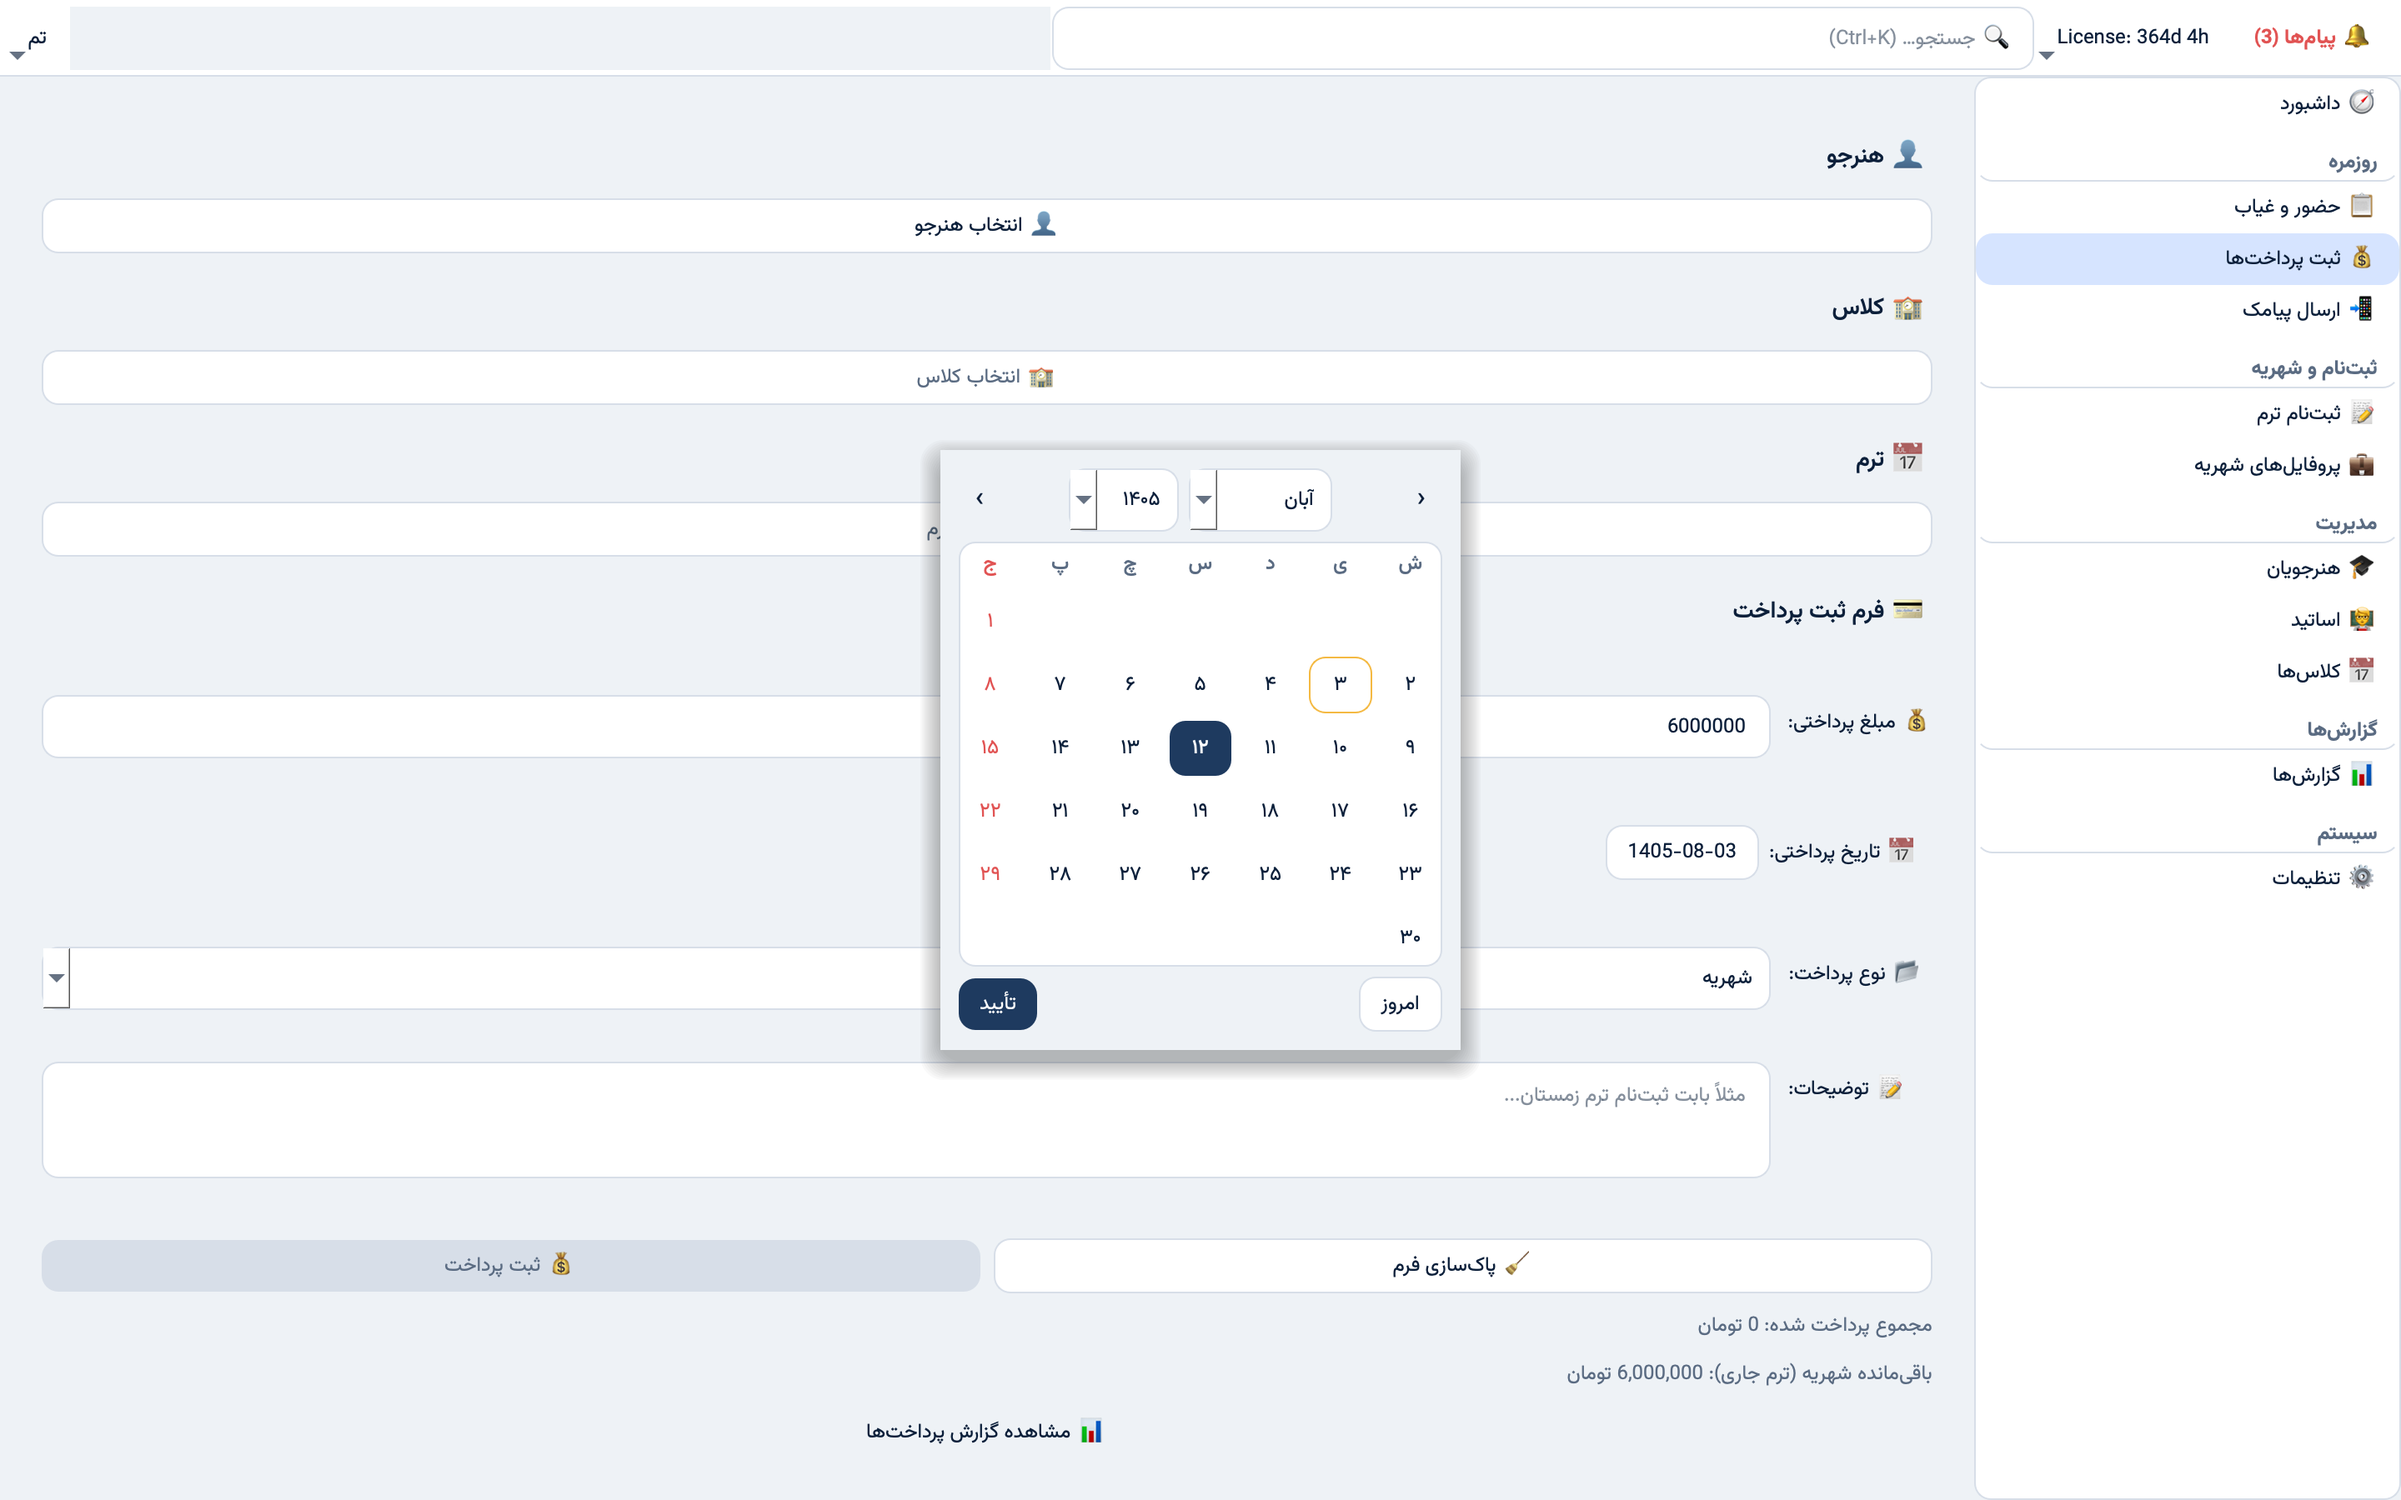
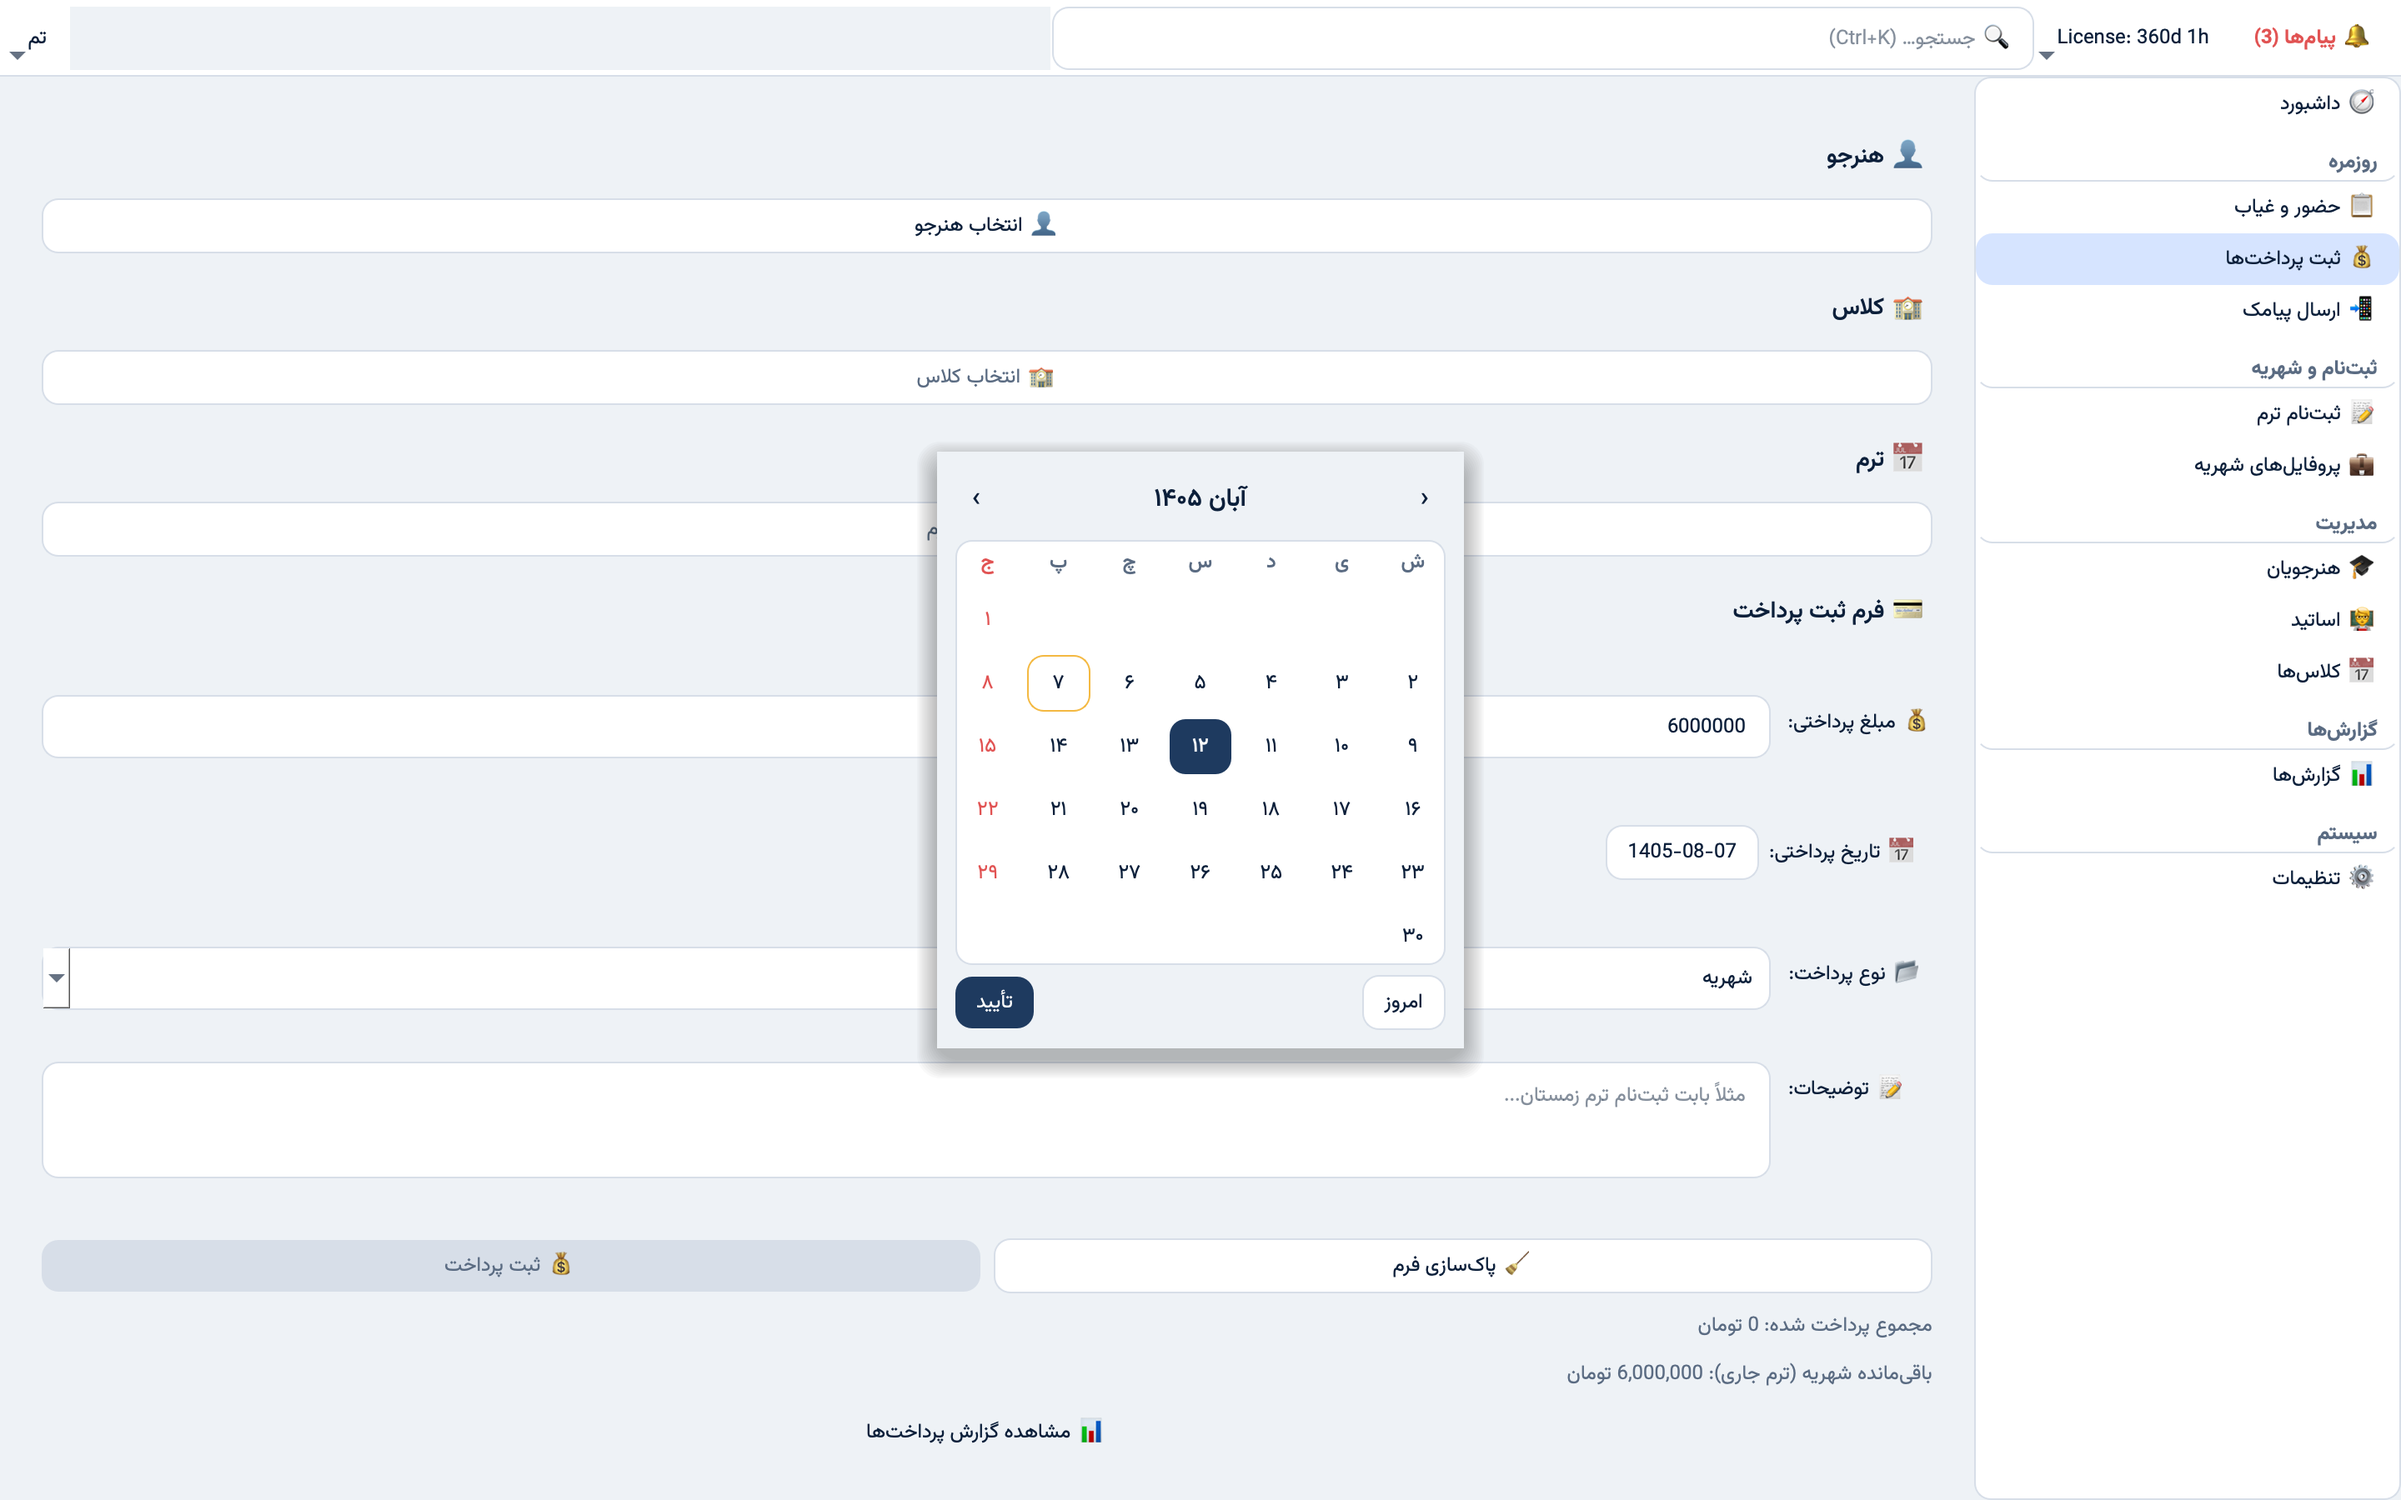
docs: update showcase for v1.4.1 with date picker navigation screenshots
- Add year and month page screenshots for the Jalali date picker
- Update README, DEPLOYMENT, ARCHITECTURE, TEST_STRATEGY, VIDEO_DEMO to reflect
  v1.4.1, manual CI/build workflow triggers, and date picker title-click navigation

Changed region(s): [[0.4688, 0.3111, 0.5312, 0.3422], [0.5625, 0.6533, 0.5938, 0.6844], [0.4062, 0.6533, 0.4375, 0.6844]]

diff --git a/README.md b/README.md
@@ -17,7 +17,7 @@
 | Aspect | Detail |
 |--------|--------|
 | **Role** | Sole developer — requirements → domain modeling → architecture → implementation → tests → packaging → releases |
-| **Scale** | Production desktop app, used daily by the admin of a music academy; 12+ tagged releases (current: `v1.4.0`) |
+| **Scale** | Production desktop app, used daily by the admin of a music academy; 12+ tagged releases (current: `v1.4.1`) |
 | **Hardest problems solved** | Schedule-as-truth domain model (no `sessions` table), derived & reversible term completion, three-state attendance with reschedule-as-cancellation, SMS sends moved off the UI thread with an exact-outcome ledger, Ed25519 offline license system with device binding & trial |
 | **Tech depth** | SQLite migrations v2–v8 (WAL, online-backup before every migration), Shamsi/Jalali calendar throughout, single-window sidebar shell with Ctrl+K command palette, token-based light/dark theming, cross-platform PyInstaller builds from CI |
 | **Testing** | **653 pytest tests** — domain/repo tests over real SQLite **plus ~540 headless pytest-qt GUI tests** that drive real pages (save attendance, send SMS through a fake transport, navigate the shell); CI on Windows (Py 3.8 & 3.11), macOS and Linux |
@@ -90,7 +90,8 @@ All screenshots use fictional demo data.
 | ![Attendance](SCREENSHOTS/attendance.png) **Attendance** — computed roster, cancel, resend reminder | ![Command palette](SCREENSHOTS/command_palette.png) **Ctrl+K command palette** |
 | ![Notification center](SCREENSHOTS/notification_center.png) **Notification Center** — failed & due reminders | ![Attendance report](SCREENSHOTS/report_attendance.png) **Attendance report** — per-date status grid, Excel export |
 | ![Financial report](SCREENSHOTS/report_financial.png) **Financial report** — tuition, extras, debt per term | ![SMS delivery report](SCREENSHOTS/report_sms_delivery.png) **SMS Delivery Report** — append-only send log |
-| ![Jalali date picker](SCREENSHOTS/date_picker.png) **Jalali date picker** — month/year dropdowns, Persian digits, Friday and today marked | ![Jalali date picker (dark)](SCREENSHOTS/date_picker_dark.png) **Date picker, dark theme** — same grid on the dark tokens |
+| ![Jalali date picker](SCREENSHOTS/date_picker.png) **Jalali date picker** — click the title for a 12-year page and a month page, Persian digits, Friday and today marked | ![Jalali date picker (dark)](SCREENSHOTS/date_picker_dark.png) **Date picker, dark theme** — same grid on the dark tokens |
+| ![Date picker — year page](SCREENSHOTS/date_picker_years.png) **Year page** — 12 years per page, arrows turn the page | ![Date picker — month page](SCREENSHOTS/date_picker_months.png) **Month page** — pick a month, back to the days |
 
 More in [SCREENSHOTS/](SCREENSHOTS/) and the index in [VIDEO_DEMO.md](VIDEO_DEMO.md).
 
@@ -116,7 +117,7 @@ More in [SCREENSHOTS/](SCREENSHOTS/) and the index in [VIDEO_DEMO.md](VIDEO_DEMO
 
 ## 📦 Releases & Distribution
 
-- **12+ tagged releases** (current: `v1.4.0`)
+- **12+ tagged releases** (current: `v1.4.1`)
 - Built by CI on every `v*` tag and attached to the GitHub Release:
 
 | Asset | Platform |
@@ -152,7 +153,7 @@ tests/
 
 ## 🚀 What's Next (Roadmap)
 
-- [x] GitHub Actions CI (pytest on push; Windows Py 3.8/3.11, macOS, Linux)
+- [x] GitHub Actions CI (pytest, run on demand; Windows Py 3.8/3.11, macOS, Linux)
 - [x] Headless widget tests (`QT_QPA_PLATFORM=offscreen`, pytest-qt)
 - [x] Automated cross-platform release builds
 - [x] Deeper modules: term progress, attendance recording, renewal reminder, enrollment, config seam

diff --git a/DEPLOYMENT.md b/DEPLOYMENT.md
@@ -6,7 +6,7 @@
 
 ## Build Pipeline (GitHub Actions)
 
-All shipping artifacts are built by **`.github/workflows/build.yml`** from a clean checkout — no hand-built binaries.
+All shipping artifacts are built by **`.github/workflows/build.yml`** from a clean checkout — no hand-built binaries. The workflow runs **only when started manually** (Actions → Build → Run workflow): from a branch it produces downloadable artifacts; from a version tag it attaches the builds to that tag's release.
 
 | Target | Runner | Python / Qt / PyInstaller | Spec | Output |
 |--------|--------|---------------------------|------|--------|
@@ -52,9 +52,9 @@ pyinstaller --noconfirm --clean packaging/linux.spec   # Linux   → dist/AcaSma
 ### Release Checklist
 
 ```markdown
-- [ ] CI green on main (tests on 4 OS/Python configs + ruff)
+- [ ] Run CI manually on main — green on 4 OS/Python configs + ruff
 - [ ] Version bumped in version.py, setup.iss, mac.spec
-- [ ] Create the release / push tag `v1.x.y` → build.yml builds all 5 targets
+- [ ] Push tag `v1.x.y`, then run build.yml manually with that tag selected → builds all 5 targets
 - [ ] Assets attached to the release automatically (draft if the tag had no release)
 - [ ] Smoke-test Windows 7 installer on a VM, Windows 10/11, macOS, Linux
 - [ ] Verify license activation on a clean VM (trial + key)

diff --git a/VIDEO_DEMO.md b/VIDEO_DEMO.md
@@ -104,8 +104,10 @@ All in [SCREENSHOTS/](SCREENSHOTS/), captured from **v1.3.21** on macOS (Retina,
 | `settings.png` | Academy settings, verified backup/restore, password and license details |
 | `command_palette.png` | Ctrl+K command palette over the dashboard |
 | `notification_center.png` | Notification Center: failed and due renewal reminders |
-| `date_picker.png` | Jalali date picker over the payments page: month/year dropdowns, Persian digits, Friday and today marked, امروز button *(captured from v1.4.0)* |
+| `date_picker.png` | Jalali date picker over the payments page: click the title for a 12-year page and a month page, Persian digits, Friday and today marked, امروز button *(captured from v1.4.0)* |
 | `date_picker_dark.png` | The date picker in the dark theme *(captured from v1.4.0)* |
+| `date_picker_years.png` | Date picker year page: 12 years (4 × 3), selected and current year marked, arrows turn 12 years |
+| `date_picker_months.png` | Date picker month page: the 12 months (4 × 3) after picking a year |
 | `login.png` | Login window |
 | `license_activation.png` | First-run license dialog: key entry or 7-day trial |
 

diff --git a/TEST_STRATEGY.md b/TEST_STRATEGY.md
@@ -72,7 +72,7 @@
 
 ## CI (GitHub Actions)
 
-**`ci.yml`** — every push and pull request to `main`:
+**`ci.yml`** — started manually from the Actions tab (no automatic runs on push or PR):
 
 | OS | Python | Track |
 |----|--------|-------|
@@ -83,7 +83,7 @@
 
 Steps: `pip install -r requirements.txt` → `pytest -v` with `QT_QPA_PLATFORM=offscreen` → `python -m compileall -q acasmart`; a separate job runs `ruff check` (pinned version, curated rule set that stays compatible with the 3.8 track).
 
-**`build.yml`** — release builds for all five targets (see [DEPLOYMENT.md](DEPLOYMENT.md)).
+**`build.yml`** — release builds for all five targets, also started manually (see [DEPLOYMENT.md](DEPLOYMENT.md)).
 
 ### Lessons CI taught
 

diff --git a/ARCHITECTURE.md b/ARCHITECTURE.md
@@ -263,7 +263,7 @@ CREATE TABLE users (id PK, mobile, password);   -- password stored hashed
 ## Cross-Platform Build Pipeline
 
 ```
-git tag v1.x.y  ──▶  GitHub Actions: .github/workflows/build.yml
+git tag v1.x.y + Run workflow (tag selected)  ──▶  .github/workflows/build.yml
                           │
      ┌──────────────┬─────┴────────┬────────────────┬────────────────┐
      ▼              ▼              ▼                ▼                ▼
